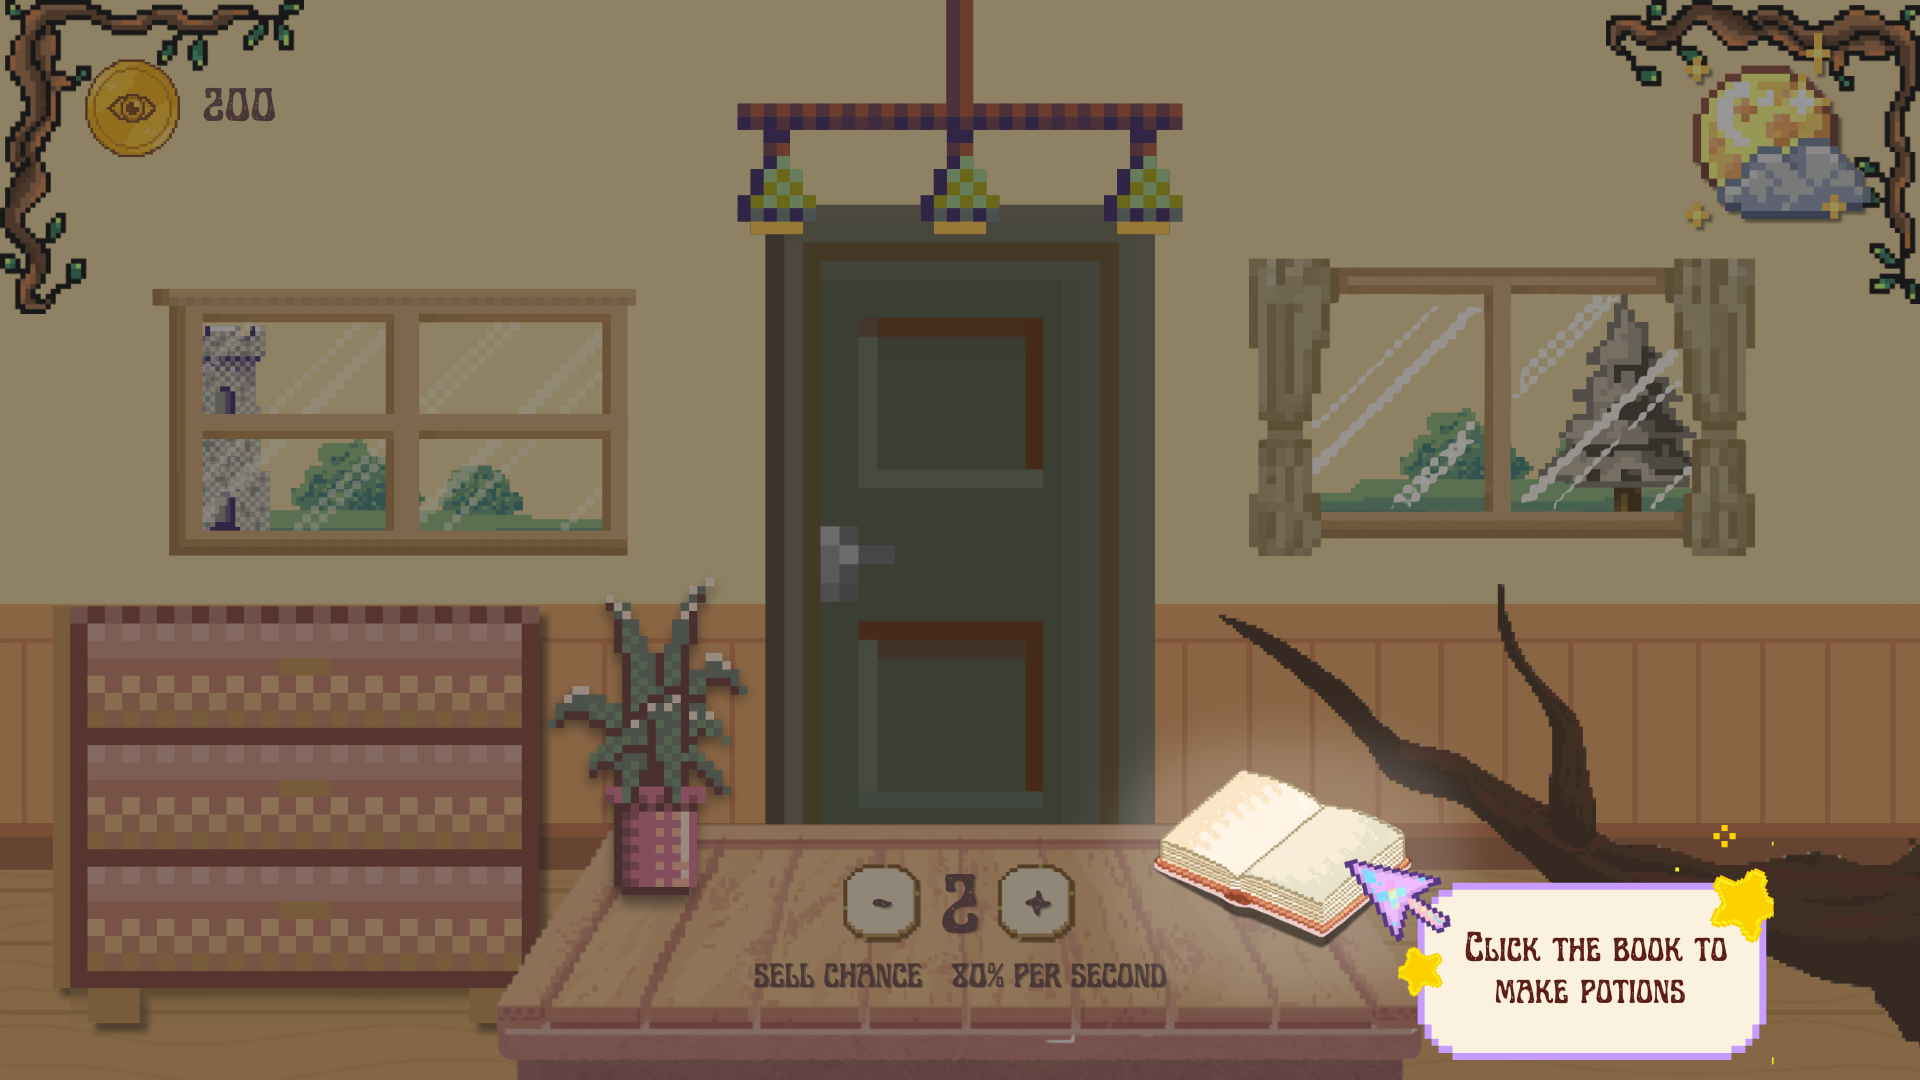
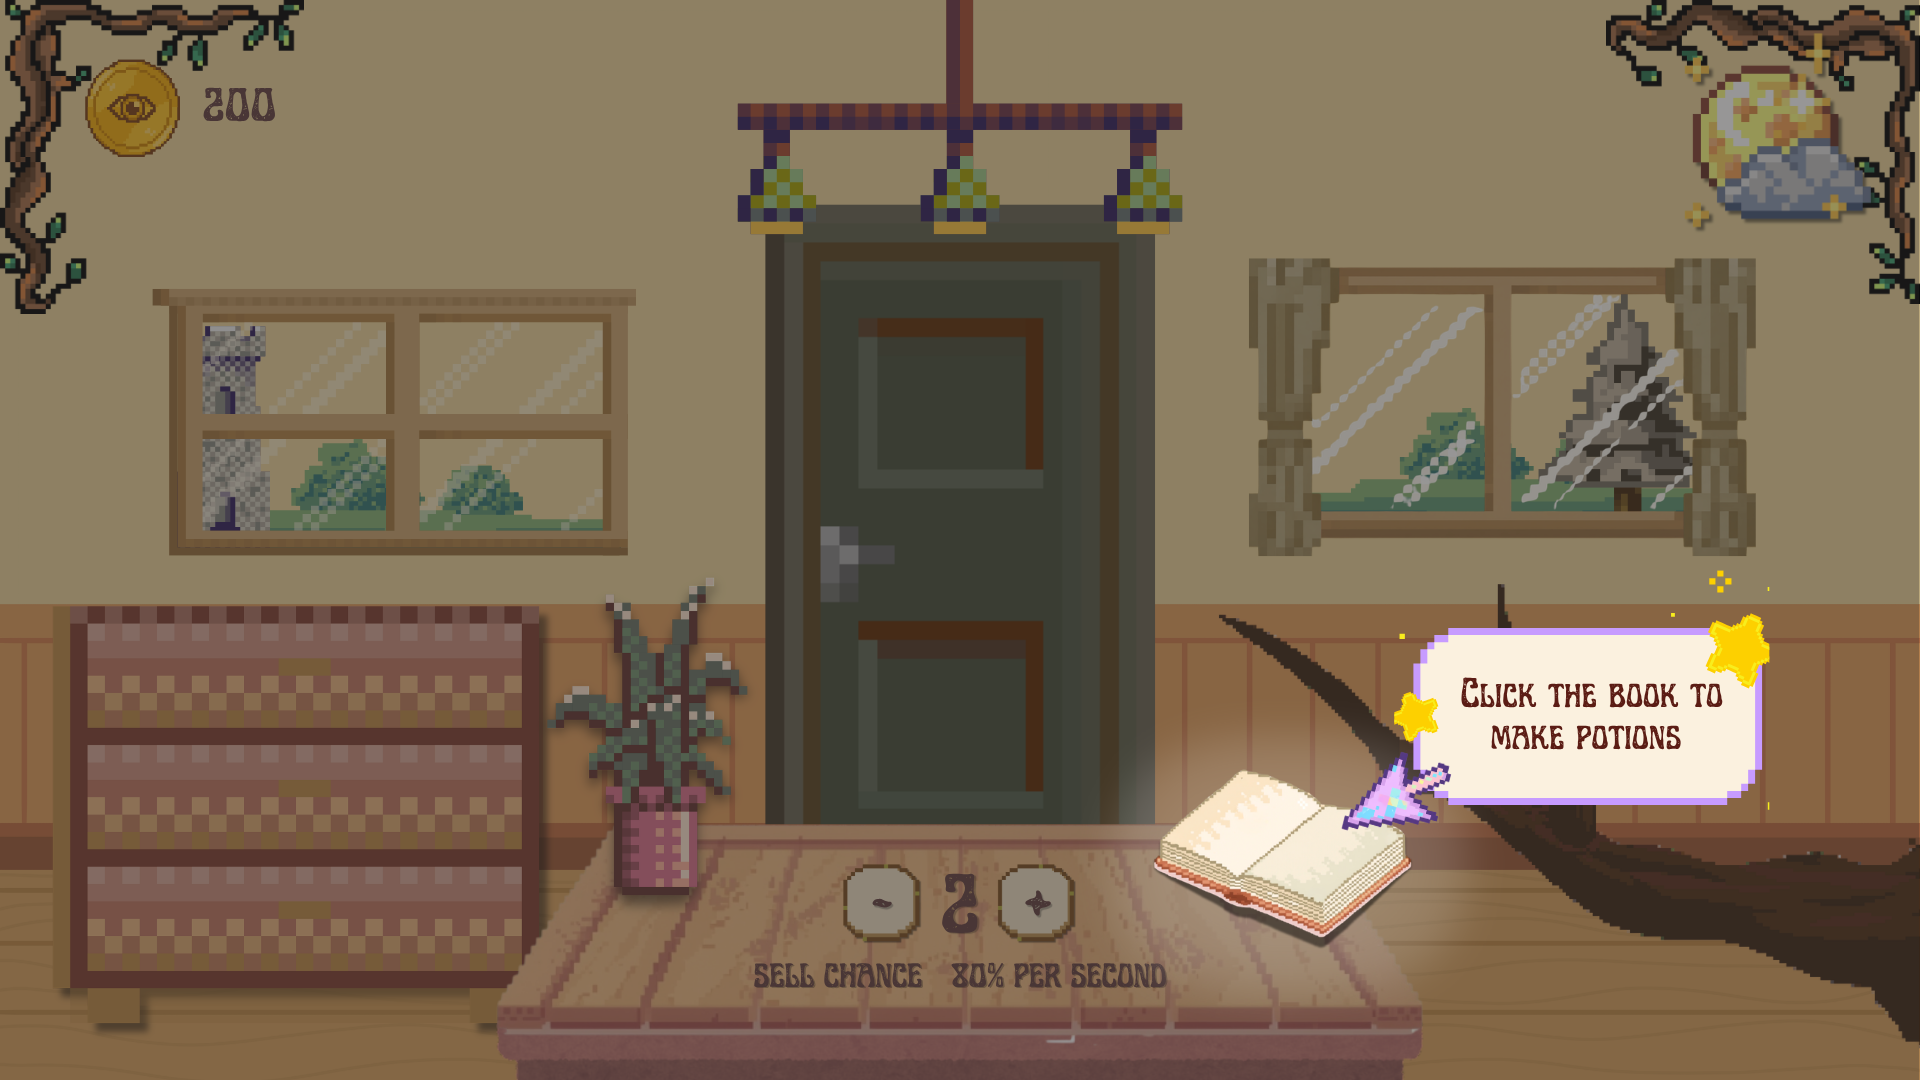
Added Tutorial Scene

Changed region(s): [[0.6875, 0.7944, 0.9375, 1.0], [0.6875, 0.55, 0.9375, 0.7639]]

diff --git a/src/tutorial_scene.cpp b/src/tutorial_scene.cpp
@@ -1,0 +1,111 @@
+#include "tutorial_scene.h"
+
+#include <godot_cpp/classes/engine.hpp>
+#include <godot_cpp/classes/resource_loader.hpp>
+#include <godot_cpp/classes/scene_tree.hpp>
+#include <godot_cpp/variant/callable.hpp>
+#include <godot_cpp/variant/utility_functions.hpp>
+
+namespace godot {
+
+TutorialScene::TutorialScene() {
+    slide_image = nullptr;
+    back_button = nullptr;
+    next_button = nullptr;
+    skip_button = nullptr;
+    start_button = nullptr;
+    current_slide = 0;
+}
+
+TutorialScene::~TutorialScene() {}
+
+void TutorialScene::_bind_methods() {
+    ClassDB::bind_method(D_METHOD("_on_next_pressed"), &TutorialScene::_on_next_pressed);
+    ClassDB::bind_method(D_METHOD("_on_back_pressed"), &TutorialScene::_on_back_pressed);
+    ClassDB::bind_method(D_METHOD("_on_skip_pressed"), &TutorialScene::_on_skip_pressed);
+    ClassDB::bind_method(D_METHOD("_on_start_pressed"), &TutorialScene::_on_start_pressed);
+}
+
+void TutorialScene::_ready() {
+    if (Engine::get_singleton()->is_editor_hint()) return;
+
+    slide_image = get_node<TextureRect>("SlideImage");
+    back_button = get_node<TextureButton>("BackButton");
+    next_button = get_node<TextureButton>("NextButton");
+    skip_button = get_node<TextureButton>("SkipButton");
+    start_button = get_node<TextureButton>("StartButton");
+
+    if (!slide_image || !back_button || !next_button || !skip_button || !start_button) {
+        UtilityFunctions::printerr("TutorialScene C++: Missing nodes.");
+        return;
+    }
+
+    ResourceLoader *loader = ResourceLoader::get_singleton();
+
+    slides.push_back(loader->load("res://assets/ui/Tutorial Screen/tutorial_01.png"));
+    slides.push_back(loader->load("res://assets/ui/Tutorial Screen/tutorial_02.png"));
+    slides.push_back(loader->load("res://assets/ui/Tutorial Screen/tutorial_03.png"));
+    slides.push_back(loader->load("res://assets/ui/Tutorial Screen/tutorial_04.png"));
+    slides.push_back(loader->load("res://assets/ui/Tutorial Screen/tutorial_05.png"));
+    slides.push_back(loader->load("res://assets/ui/Tutorial Screen/tutorial_06.png"));
+    slides.push_back(loader->load("res://assets/ui/Tutorial Screen/tutorial_07.png"));
+    slides.push_back(loader->load("res://assets/ui/Tutorial Screen/tutorial_08.png"));
+    slides.push_back(loader->load("res://assets/ui/Tutorial Screen/tutorial_09.png"));
+    slides.push_back(loader->load("res://assets/ui/Tutorial Screen/tutorial_10.png"));
+    slides.push_back(loader->load("res://assets/ui/Tutorial Screen/tutorial_11.png"));
+    slides.push_back(loader->load("res://assets/ui/Tutorial Screen/tutorial_12.png"));
+    slides.push_back(loader->load("res://assets/ui/Tutorial Screen/tutorial_13.png"));
+    slides.push_back(loader->load("res://assets/ui/Tutorial Screen/tutorial_14.png"));
+
+    next_button->connect("pressed", Callable(this, "_on_next_pressed"));
+    back_button->connect("pressed", Callable(this, "_on_back_pressed"));
+    skip_button->connect("pressed", Callable(this, "_on_skip_pressed"));
+    start_button->connect("pressed", Callable(this, "_on_start_pressed"));
+
+    update_slide();
+}
+
+void TutorialScene::update_slide() {
+    slide_image->set_texture(slides[current_slide]);
+
+    back_button->set_visible(current_slide > 0);
+
+    if (current_slide == slides.size() - 1) {
+        skip_button->set_visible(false);
+        start_button->set_visible(true);
+    } else {
+        skip_button->set_visible(true);
+        start_button->set_visible(false);
+    }
+}
+
+void TutorialScene::_on_next_pressed() {
+    if (current_slide < slides.size() - 1) {
+        current_slide++;
+        update_slide();
+    } else {
+        start_game();
+    }
+}
+
+void TutorialScene::_on_back_pressed() {
+    if (current_slide > 0) {
+        current_slide--;
+        update_slide();
+    }
+}
+
+void TutorialScene::_on_skip_pressed() {
+    current_slide = slides.size() - 1;
+    update_slide();
+}
+
+void TutorialScene::_on_start_pressed() {
+    start_game();
+}
+
+void TutorialScene::start_game() {
+    get_tree()->change_scene_to_file("res://scenes/game_loading_screen.tscn");
+}
+
+}

diff --git a/src/tutorial_scene.h b/src/tutorial_scene.h
@@ -1,0 +1,46 @@
+#ifndef TUTORIAL_SCENE_H
+#define TUTORIAL_SCENE_H
+
+#include <godot_cpp/classes/control.hpp>
+#include <godot_cpp/classes/texture_rect.hpp>
+#include <godot_cpp/classes/texture_button.hpp>
+#include <godot_cpp/classes/texture2d.hpp>
+#include <godot_cpp/templates/vector.hpp>
+
+namespace godot {
+
+class TutorialScene : public Control {
+    GDCLASS(TutorialScene, Control);
+
+private:
+    TextureRect *slide_image;
+    TextureButton *back_button;
+    TextureButton *next_button;
+    TextureButton *skip_button;
+    TextureButton *start_button;
+
+    Vector<Ref<Texture2D>> slides;
+    int current_slide;
+
+protected:
+    static void _bind_methods();
+
+public:
+    TutorialScene();
+    ~TutorialScene();
+
+    void _ready() override;
+    void update_slide();
+
+    void _on_next_pressed();
+    void _on_back_pressed();
+    void _on_skip_pressed();
+    void _on_start_pressed();
+
+
+    void start_game();
+};
+
+}
+
+#endif

diff --git a/src/intro_cutscene.cpp b/src/intro_cutscene.cpp
@@ -63,7 +63,7 @@ void IntroCutscene::show_current_line() {
         SceneTree* tree = get_tree();
         if (tree) {
             // Cut introduction completed -> Route into your loading layer
-            tree->change_scene_to_file("res://scenes/game_loading_screen.tscn");
+            tree->change_scene_to_file("res://scenes/tutorial_scene.tscn");
         }
         return;
     }
@@ -83,7 +83,7 @@ void IntroCutscene::_on_skip_pressed() {
     SceneTree* tree = get_tree();
 
     if (tree) {
-        tree->change_scene_to_file("res://scenes/game_loading_screen.tscn");
+        tree->change_scene_to_file("res://scenes/tutorial_scene.tscn");
     }
 }
 

diff --git a/src/register_types.cpp b/src/register_types.cpp
@@ -13,6 +13,7 @@
 #include <gdextension_interface.h>
 #include <godot_cpp/core/defs.hpp>
 #include <godot_cpp/godot.hpp>
+#include "tutorial_scene.h"
 
 using namespace godot;
 
@@ -30,6 +31,7 @@ void initialize_albularyo_module(ModuleInitializationLevel p_level) {
     ClassDB::register_class<IntroCutscene>();
     ClassDB::register_class<MainScreen>();
     ClassDB::register_class<Settings>();
+    ClassDB::register_class<TutorialScene>();
 }
 
 void uninitialize_albularyo_module(ModuleInitializationLevel p_level) {}
